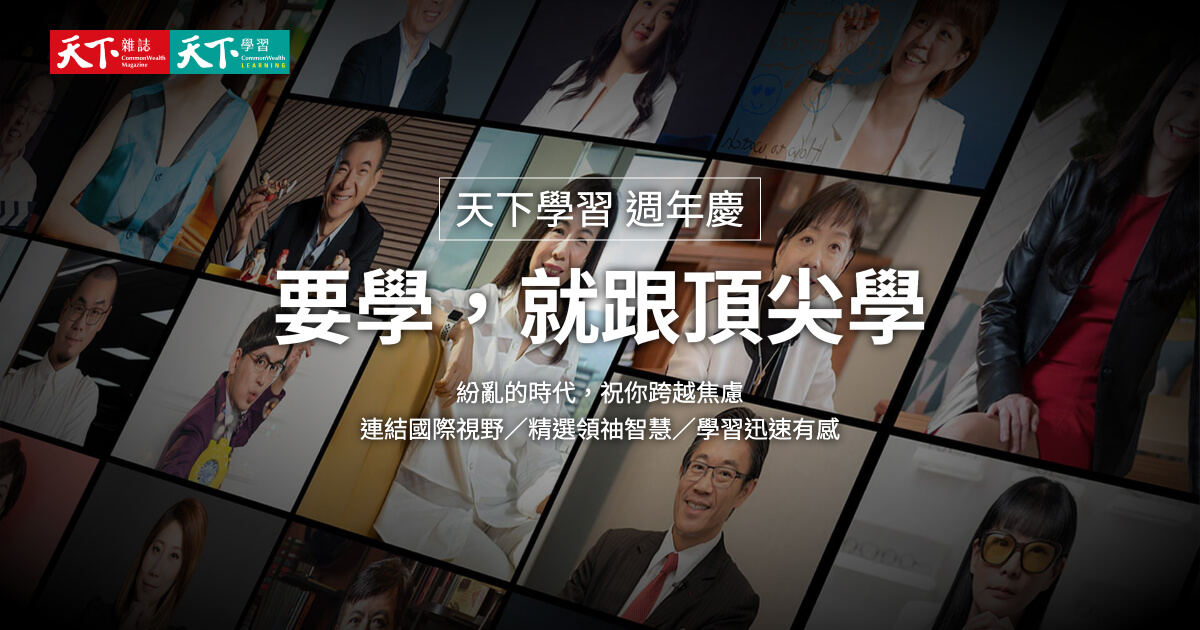
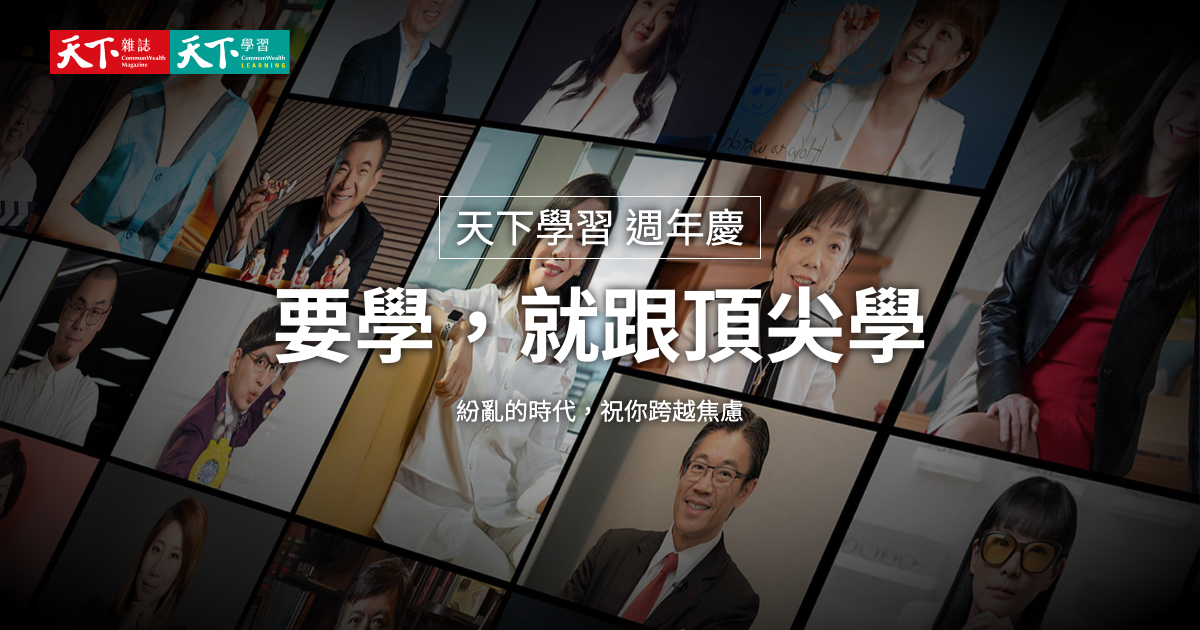
meta, slider

Changed region(s): [[0.2158, 0.2714, 0.7708, 0.7238]]

diff --git a/index.html b/index.html
@@ -74,9 +74,6 @@
             <div class="h3">
                 紛亂的時代，祝你跨越焦慮
             </div>
-            <div class="h3">
-                連結國際視野／精選領䄂智慧／學習迅速有感
-            </div>
             <a href="#anniversary" class="btn btn-primary px-md-30 px-20">
                 <svg width="25" height="25" viewBox="0 0 25 25" fill="none" xmlns="http://www.w3.org/2000/svg">
                     <path d="M23.6245 4.74402H17.0602L17.6346 4.22972C17.6768 4.19197 17.7145 4.14971 17.7473 4.10369C18.5867 2.92685 18.3121 1.28658 17.1351 0.447231C16.5738 0.0470169 15.8669 -0.0935424 15.1954 0.0620499C14.5238 0.217475 13.9505 0.654186 13.6222 1.2601L12.5002 3.33124L11.3782 1.2601C11.0499 0.654103 10.4765 0.217308 9.80502 0.0619664C9.13338 -0.0935424 8.42641 0.0469334 7.86534 0.447147C6.6885 1.28649 6.41381 2.92677 7.25307 4.10361C7.28598 4.14971 7.32381 4.19197 7.36582 4.22964L7.94017 4.74393H1.37606C0.95263 4.74393 0.609375 5.08719 0.609375 5.51062V10.3716C0.609375 10.7951 0.95263 11.1383 1.37606 11.1383H1.57918V24.2333C1.57918 24.6567 1.92243 25 2.34586 25H22.6547C23.0781 25 23.4214 24.6567 23.4214 24.2333V11.1383H23.6245C24.0479 11.1383 24.3912 10.7951 24.3912 10.3716V5.5107C24.3912 5.08727 24.0479 4.74402 23.6245 4.74402ZM14.9705 1.99046C15.0912 1.76739 15.2939 1.61305 15.5411 1.55584C15.6081 1.5403 15.6752 1.5327 15.7417 1.5327C15.9206 1.5327 16.0942 1.58816 16.2448 1.69556C16.4815 1.86435 16.6381 2.11507 16.6862 2.40186C16.73 2.66411 16.6781 2.92744 16.5399 3.1516L14.7614 4.74402H13.4789L14.9705 1.99046ZM8.31424 2.40195C8.36218 2.11532 8.51894 1.86443 8.75571 1.69564C8.96225 1.54832 9.21197 1.49863 9.45934 1.55592C9.70647 1.61305 9.90917 1.76747 10.03 1.99054L11.5216 4.74402H10.2391L8.46048 3.1516C8.32226 2.92752 8.2704 2.66402 8.31424 2.40195ZM9.64709 23.4667H3.11246V11.1384H9.64709V23.4667ZM13.8199 23.4667H11.1805V11.1384H13.8199V23.4667ZM21.888 23.4667H15.3534V11.1384H21.888V23.4667ZM22.8578 9.60505H2.14266V6.27739H22.8577V9.60505H22.8578Z" fill="white"/>
@@ -366,7 +363,6 @@
                         <div class="slick-required">
                             <div class="card text-center">
                                 <div class="card-img">
-                                    <div class="label">SALE</div>
                                     <img src="assets/images/davis-tsai.jpg" alt="蔡恩全" class="rounded-3">
                                 </div>
                                 <div class="card-text">
@@ -379,7 +375,6 @@
                             </div>
                             <div class="card text-center">
                                 <div class="card-img">
-                                    <div class="label">SALE</div>
                                     <img src="assets/images/ann-lang.jpg" alt="郎祖筠" class="rounded-3">
                                 </div>
                                 <div class="card-text">
@@ -392,7 +387,6 @@
                             </div>
                             <div class="card text-center">
                                 <div class="card-img">
-                                    <div class="label">SALE</div>
                                     <img src="assets/images/jt-hsu.jpg" alt="徐瑞廷" class="rounded-3">
                                 </div>
                                 <div class="card-text">
@@ -405,7 +399,6 @@
                             </div>
                             <div class="card text-center">
                                 <div class="card-img">
-                                    <div class="label">SALE</div>
                                     <img src="assets/images/martin-liou.jpg" alt="劉明雄" class="rounded-3">
                                 </div>
                                 <div class="card-text">
@@ -418,7 +411,6 @@
                             </div>
                             <div class="card text-center">
                                 <div class="card-img">
-                                    <div class="label">SALE</div>
                                     <img src="assets/images/mickey-huang.jpg" alt="黃子佼" class="rounded-3">
                                 </div>
                                 <div class="card-text">
@@ -510,7 +502,7 @@
             ]
         });
         $('.slick-process').slick({
-            slidesToShow: 2,
+            slidesToShow: 3,
             slidesToScroll: 1,
             infinite: false,
             dots: true,

diff --git a/assets/sass/_slick.scss b/assets/sass/_slick.scss
@@ -104,9 +104,6 @@
 }
 
 .slick-latest, .slick-required {
-    .slick-list {
-        margin: 0 -15px;
-    }
     .slick-slide {
         padding: 0 15px;
     }
@@ -118,6 +115,9 @@
 }
 
 .slick-latest {
+    .slick-list {
+        margin: 0 -15px;
+    }
     .card {
         p {
             height: 2 * 1.5 * 1.125rem;
@@ -132,15 +132,15 @@
 }
 
 .slick-process {
-    .slick-list {
-        margin: 0 -20px;
-        @include media-breakpoint-up(lg) {
-            max-width: 1000px;
-        }
-        @include media-breakpoint-up(md) {
-            max-width: 790px;
-        }
-    }
+    // .slick-list {
+    //     margin: 0 -20px;
+    //     @include media-breakpoint-up(lg) {
+    //         max-width: 1000px;
+    //     }
+    //     @include media-breakpoint-up(md) {
+    //         max-width: 790px;
+    //     }
+    // }
     .slick-slide {
         padding: 0 20px;
     }

diff --git a/assets/css/main.css b/assets/css/main.css
@@ -7367,10 +7367,6 @@ header.opened .hamburger {
   }
 }
 
-.slick-latest .slick-list, .slick-required .slick-list {
-  margin: 0 -15px;
-}
-
 .slick-latest .slick-slide, .slick-required .slick-slide {
   padding: 0 15px;
 }
@@ -7379,28 +7375,16 @@ header.opened .hamburger {
   margin-bottom: 15px;
 }
 
+.slick-latest .slick-list {
+  margin: 0 -15px;
+}
+
 .slick-latest .card p {
   height: 3.375rem;
 }
 
 .slick-required .slick-list, .slick-process .slick-list {
   overflow: visible;
-}
-
-.slick-process .slick-list {
-  margin: 0 -20px;
-}
-
-@media (min-width: 992px) {
-  .slick-process .slick-list {
-    max-width: 1000px;
-  }
-}
-
-@media (min-width: 768px) {
-  .slick-process .slick-list {
-    max-width: 790px;
-  }
 }
 
 .slick-process .slick-slide {
